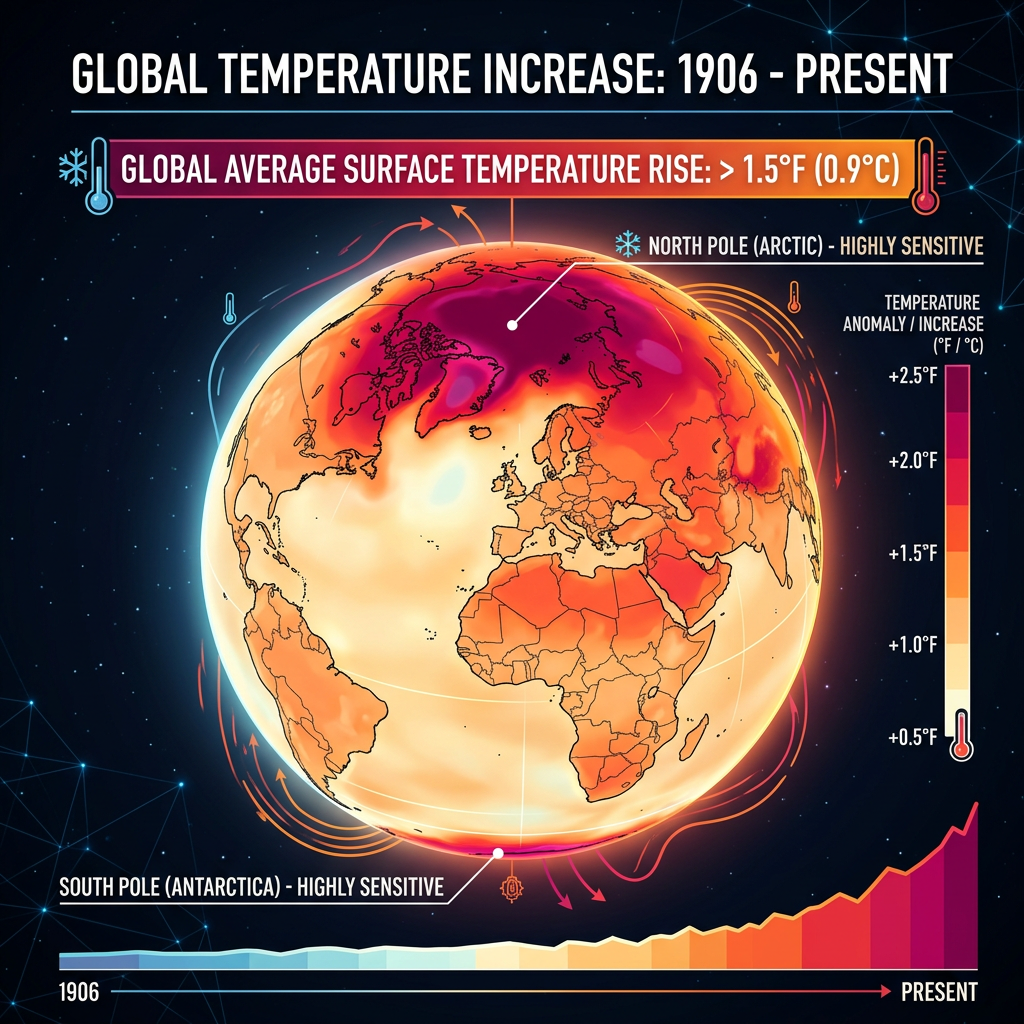
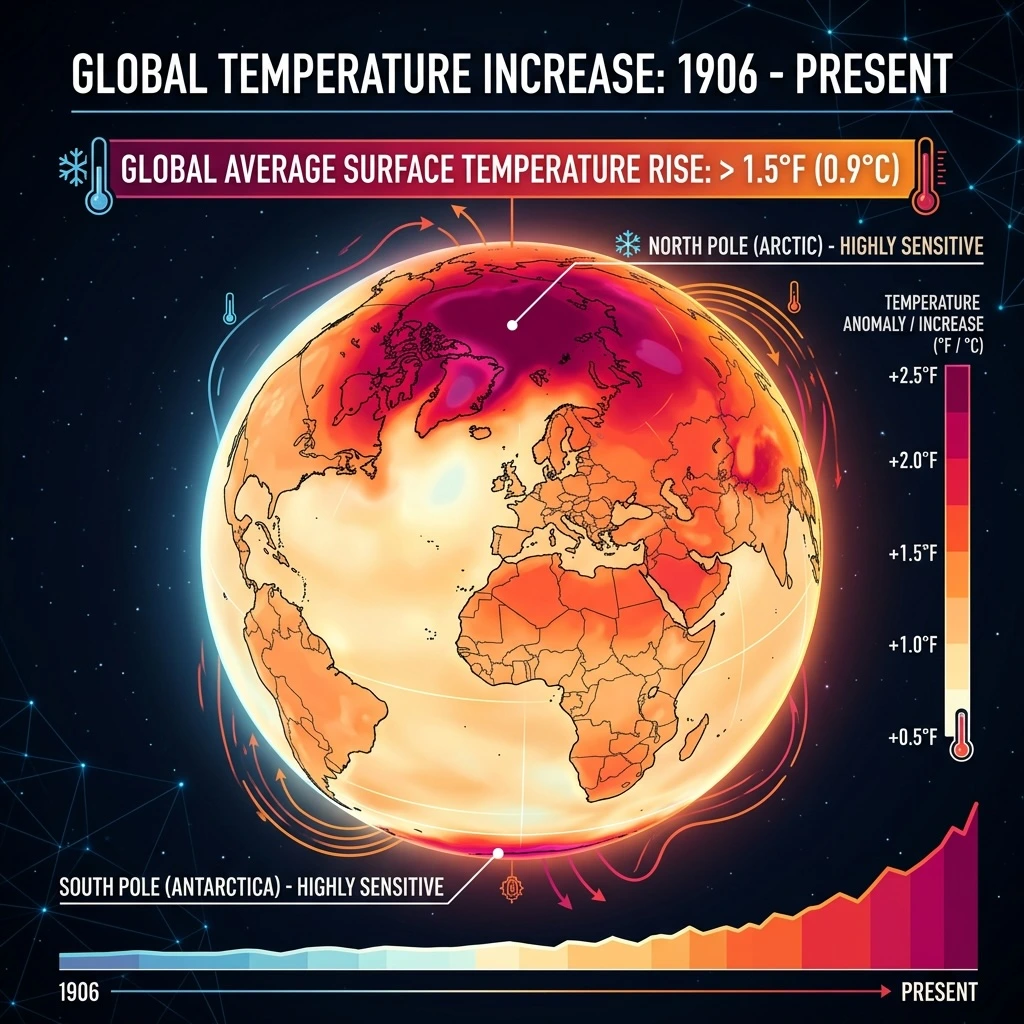
Decrease image size by lowering resolution and conversion to webp

Changed region(s): [[0.3125, 0.8125, 0.3438, 0.8438]]

diff --git a/_posts/2026-03-03-building-a-rate-limiter.md b/_posts/2026-03-03-building-a-rate-limiter.md
@@ -4,7 +4,7 @@ subtitle: "Design, implementation, and benchmarks in Python and Go"
 tags: [coding, python, go, systems, algorithms]
 toc: true
 math: true
-image: "assets/images/posts/token-bucket-diagram.png"
+image: "assets/images/posts/token-bucket-diagram.webp"
 image_alt: "Token Bucket System Design Diagram"
 description: "A hands-on walkthrough of implementing a production-grade rate limiter with code in two languages."
 ---